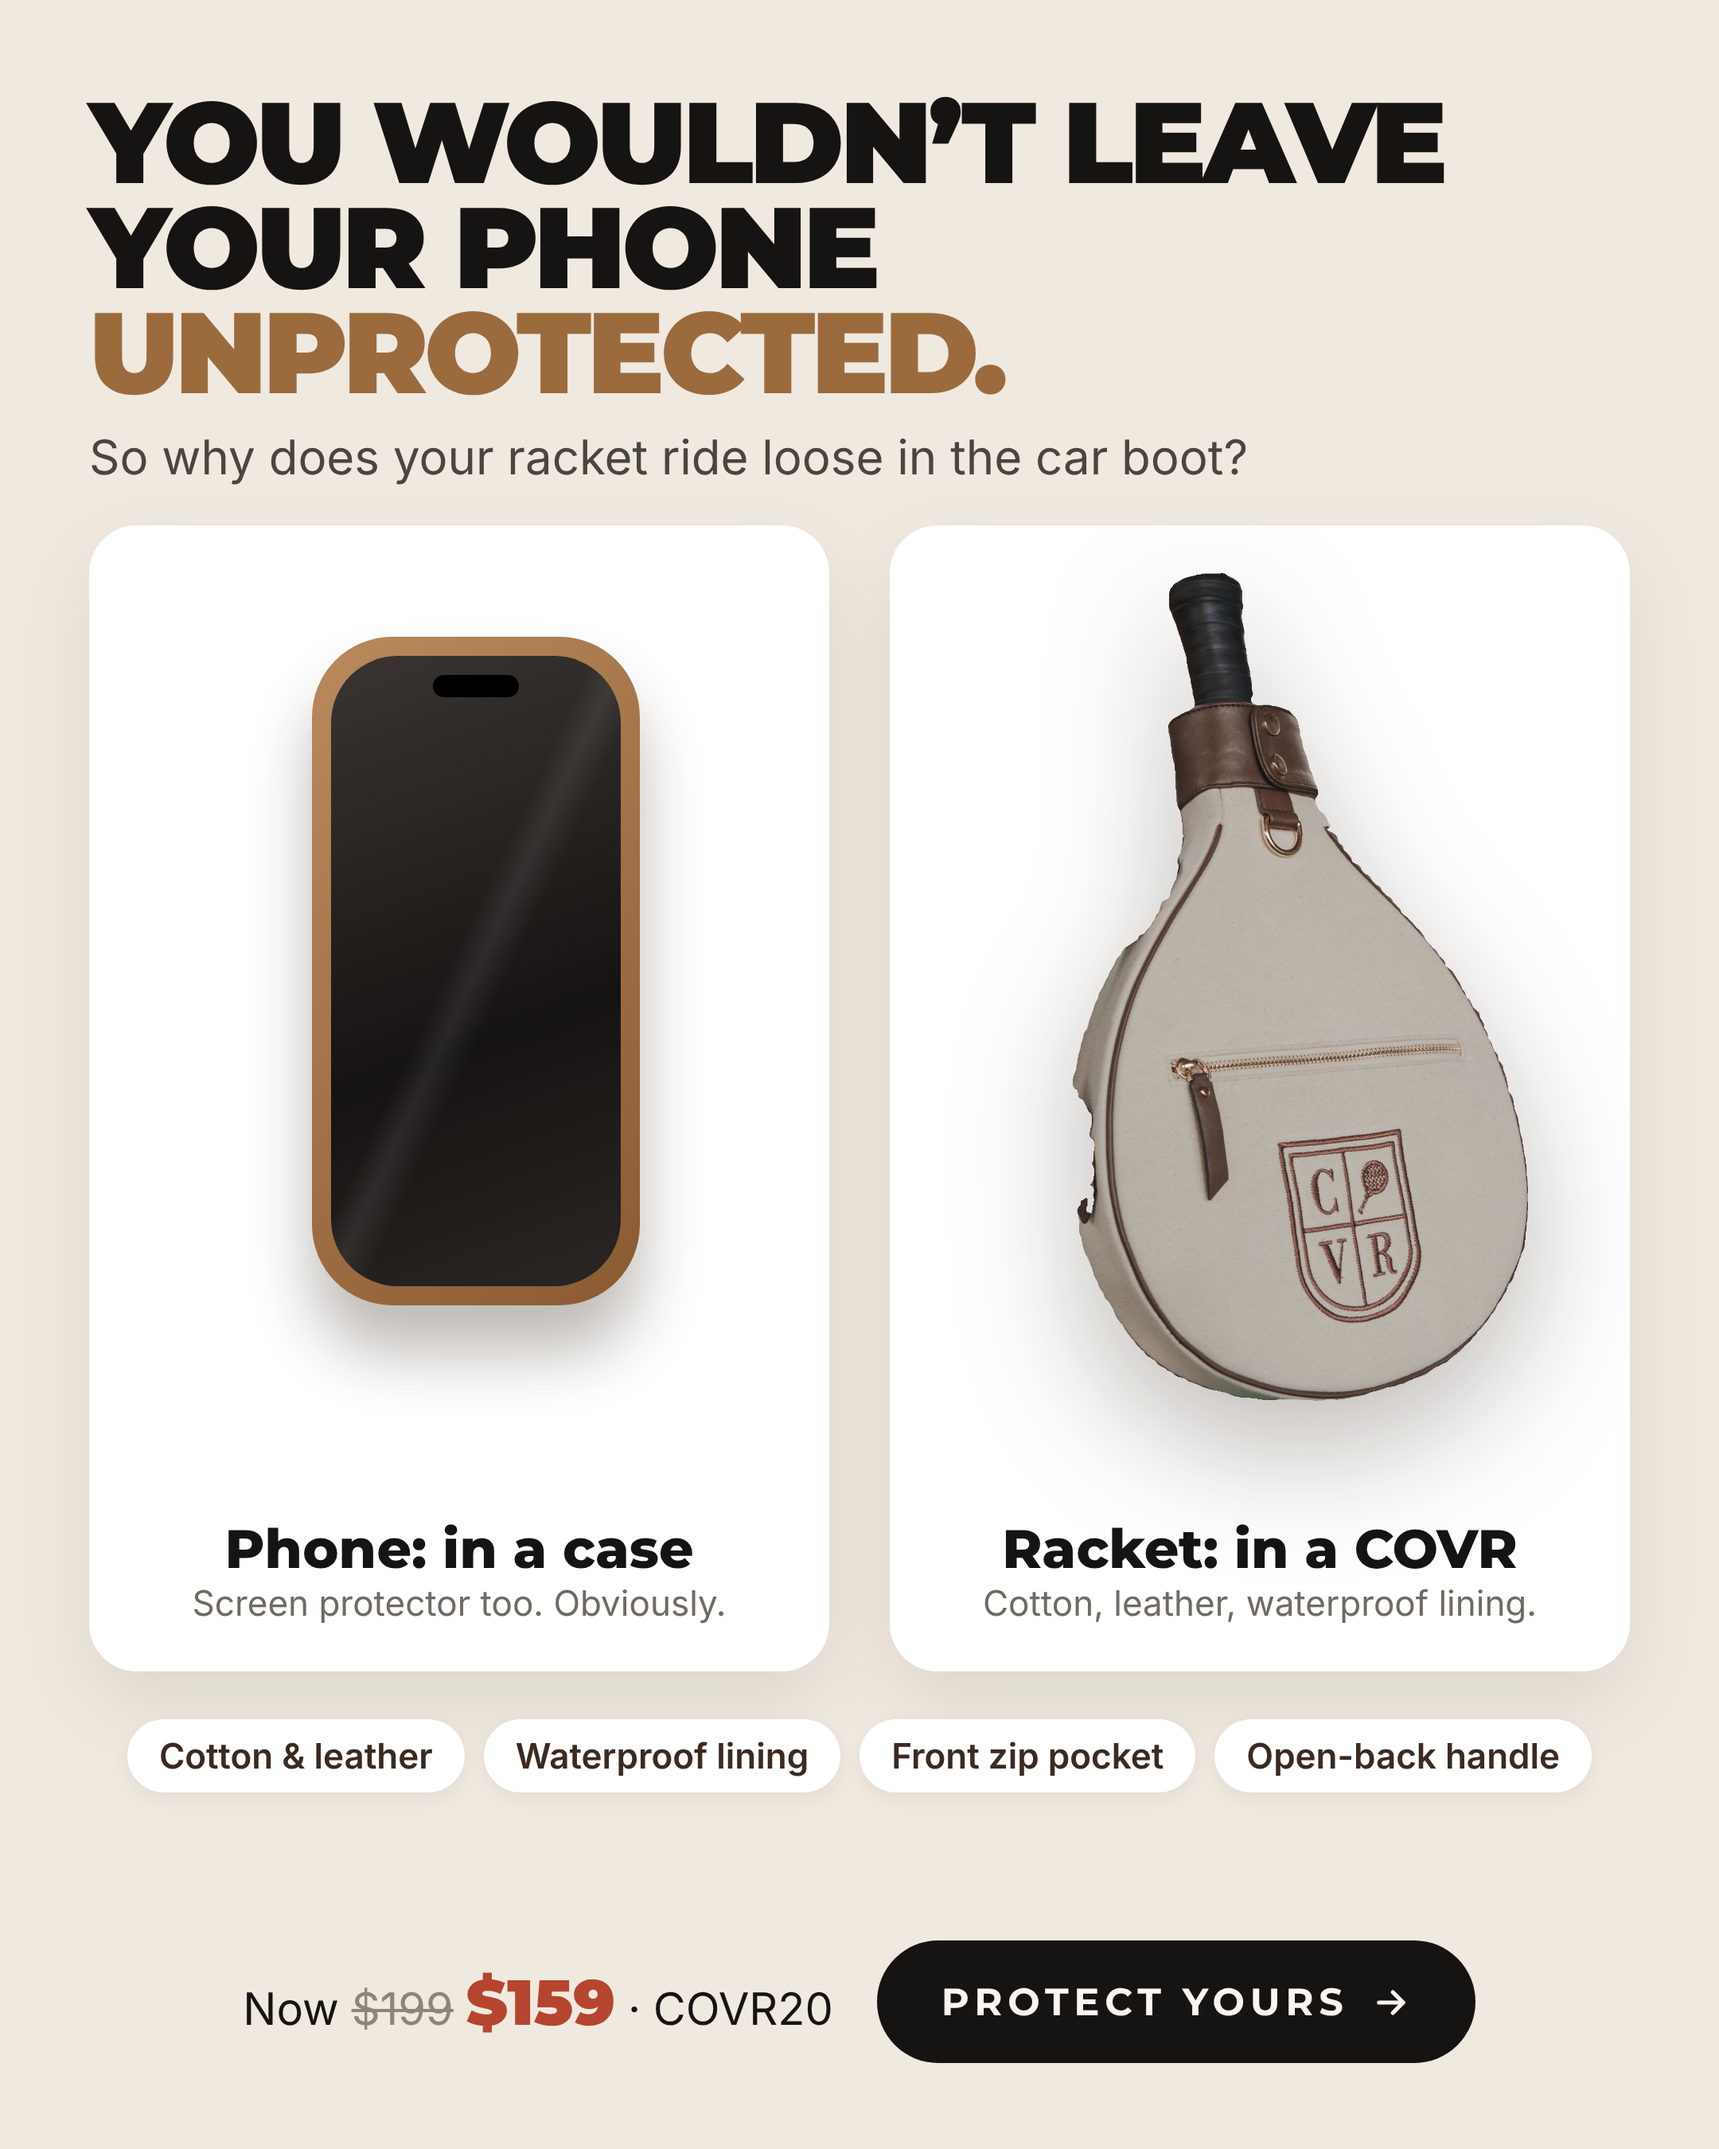
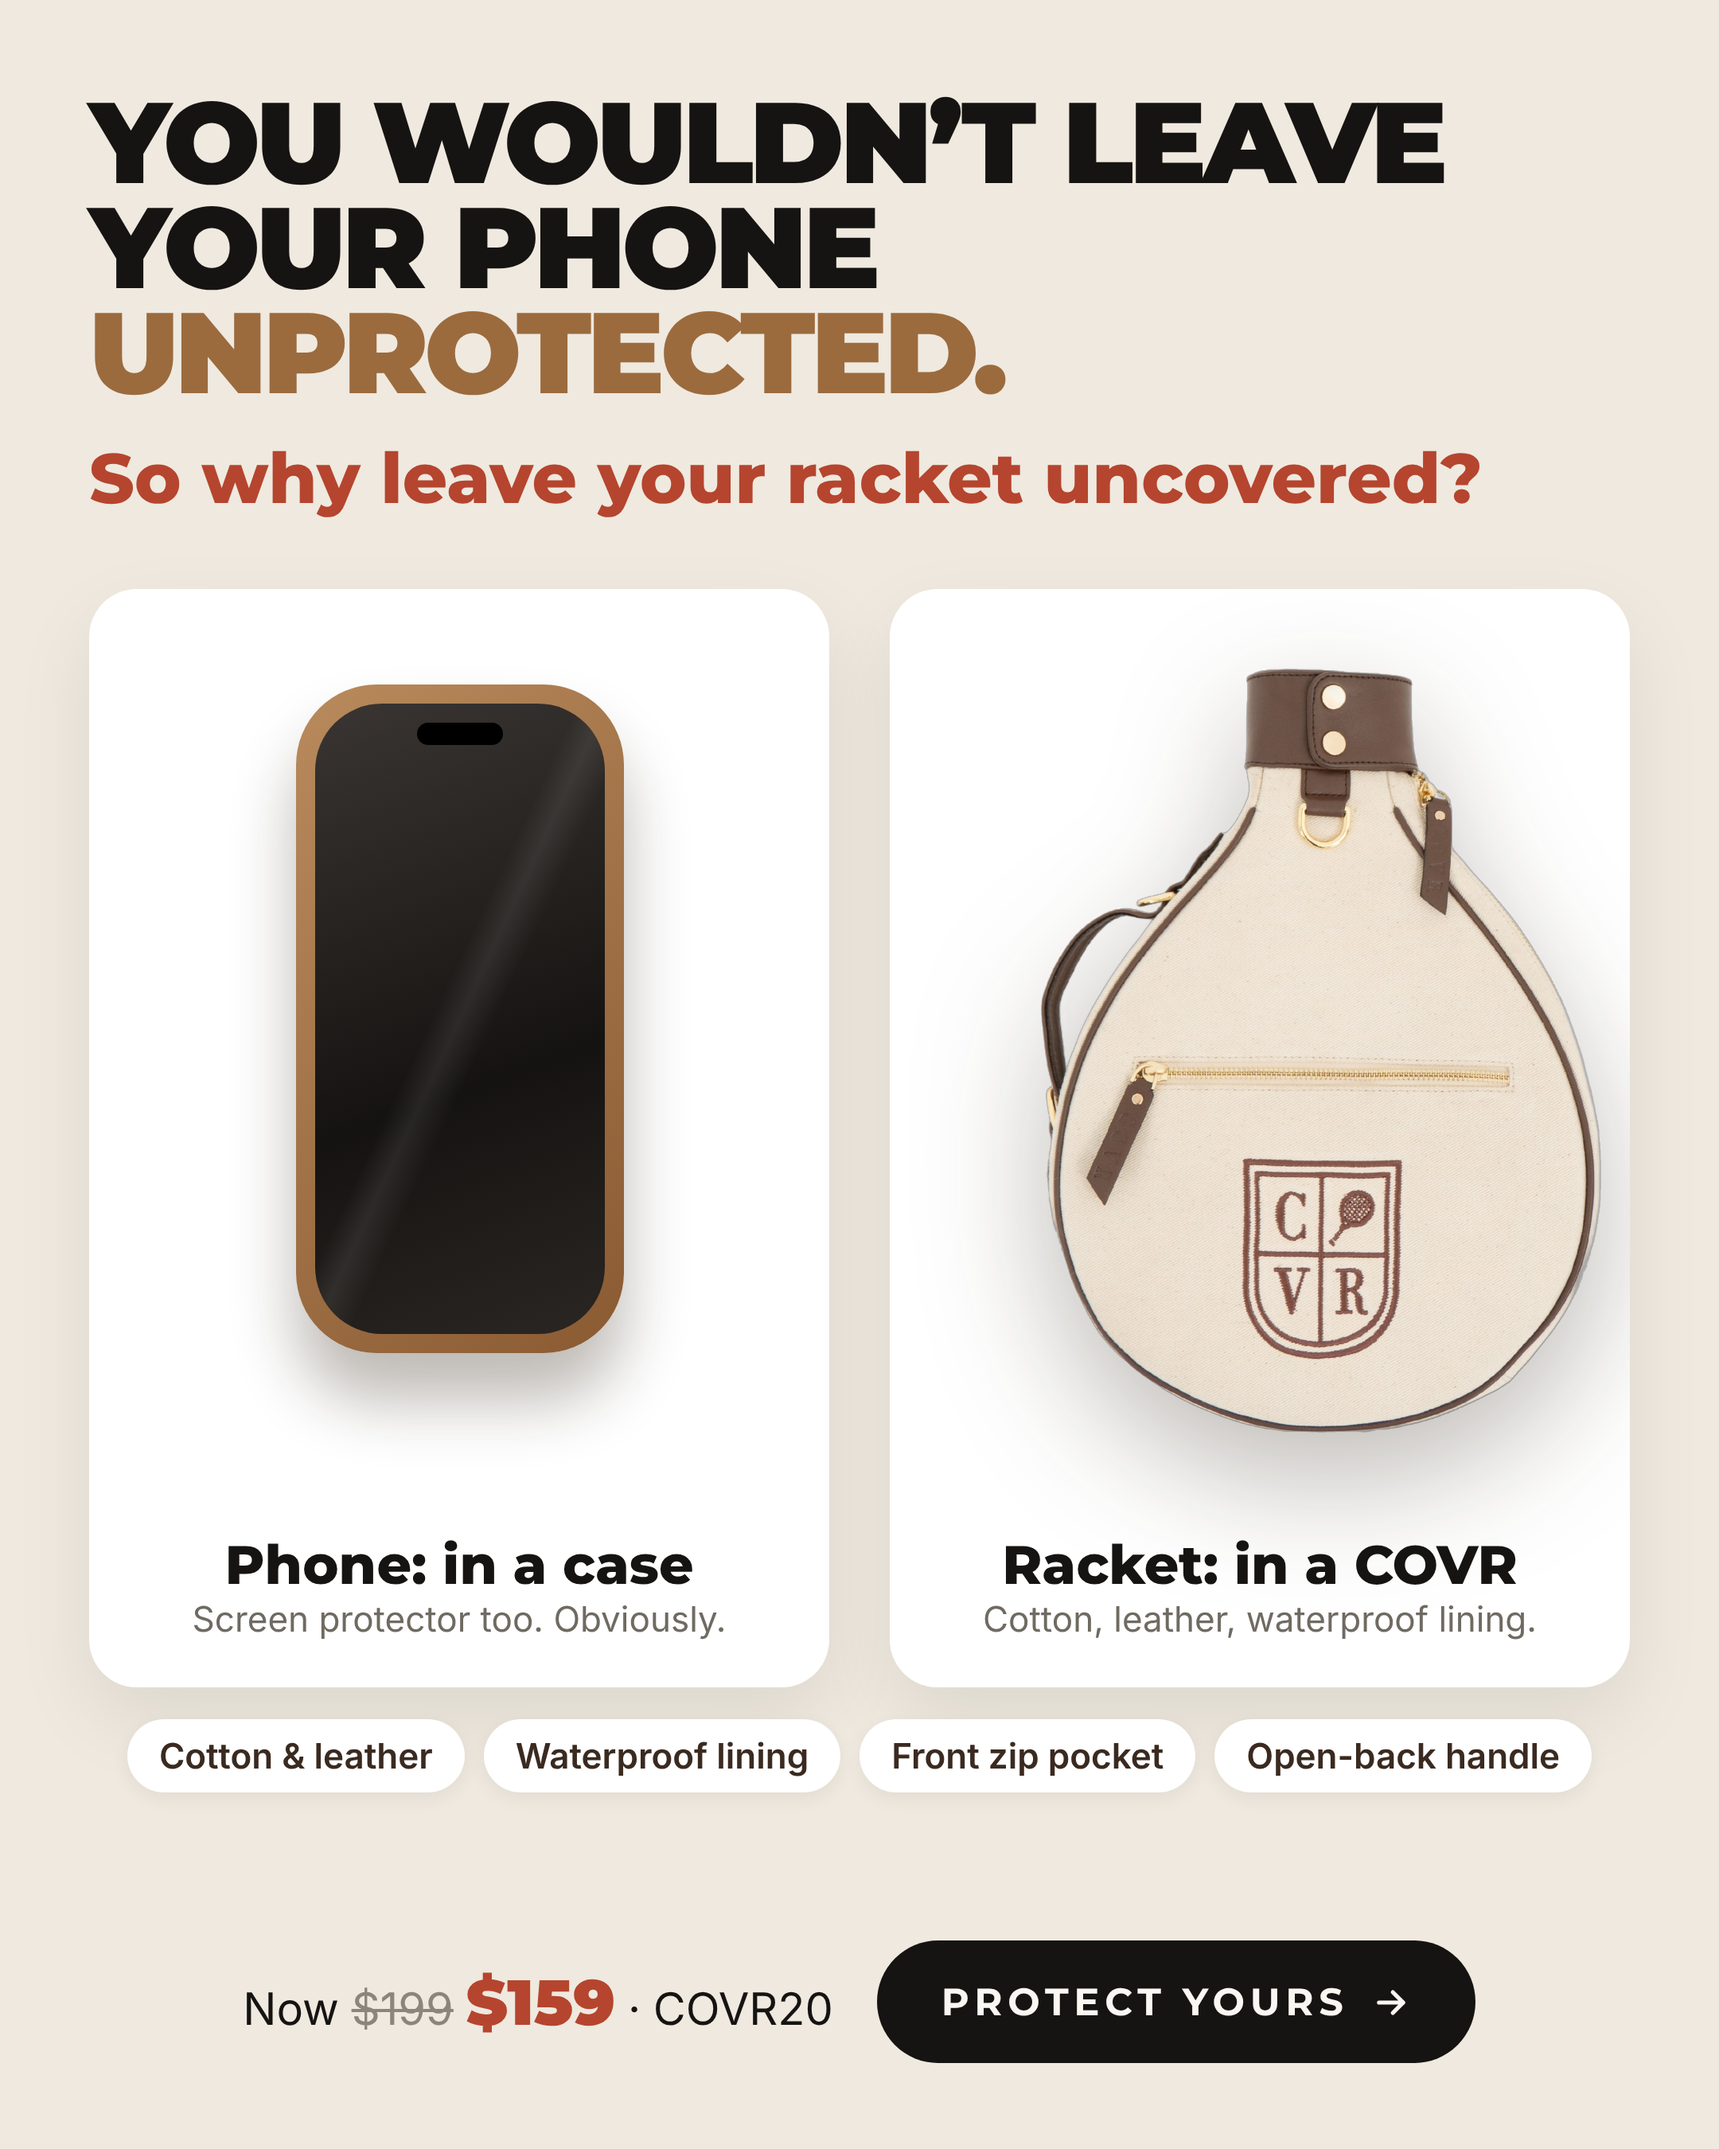
Phone ad: original layout + 'So why leave your racket uncovered?', studio Latte cutout
Claude-Session: https://claude.ai/code/session_01V345AG8PM5DpNjc2uC2RjB

Changed region(s): [[0.031, 0.1867, 0.9616, 0.6844], [0.5273, 0.7156, 0.9306, 0.8089], [0.062, 0.7156, 0.4653, 0.8089]]

diff --git a/creative/ads11.js b/creative/ads11.js
@@ -18,14 +18,14 @@ const add = a => ads.push({ outDir: 'phone', scale: 2, stage: 'TOFU', ...a });
 /* V1 — Side-by-side cards, with the "why" spelled out under each */
 add({
   id: 'ph1-two-cards', format: 'Analogy cards',
-  css: `body{background:#efe9df}.card{position:absolute;top:330px;width:465px;height:720px;border-radius:30px;background:#fff;box-shadow:0 20px 50px rgba(0,0,0,.08);overflow:hidden}
+  css: `body{background:#efe9df}.card{position:absolute;top:370px;width:465px;height:690px;border-radius:30px;background:#fff;box-shadow:0 20px 50px rgba(0,0,0,.08);overflow:hidden}
         .cap{position:absolute;left:0;right:0;bottom:30px;text-align:center}.cap b{display:block;font-family:Montserrat;font-weight:800;font-size:34px}.cap span{font-size:22px;color:#6f6a62}`,
   html: `
     <div class="abs" style="left:56px;right:56px;top:56px"><div class="mega" style="font-size:72px">You wouldn’t leave</div><div class="mega" style="font-size:72px">your phone <span class="tan">unprotected.</span></div>
-      <div style="font-size:30px;color:#4a4540;margin-top:14px">So why does your racket ride loose in the car boot?</div></div>
-    <div class="card" style="left:56px">${phone(140, 70, 420)}
+      <div style="font-family:Montserrat;font-weight:800;font-size:44px;color:#b5452e;margin-top:18px">So why leave your racket uncovered?</div></div>
+    <div class="card" style="left:56px">${phone(130, 60, 420)}
       <div class="cap"><b>Phone: in a case</b><span>Screen protector too. Obviously.</span></div></div>
-    <div class="card" style="left:559px">${cut('latte-bench', 115, 30, 520)}
+    <div class="card" style="left:559px">${cut('pack-latte', 95, 50, 480)}
       <div class="cap"><b>Racket: in a COVR</b><span>Cotton, leather, waterproof lining.</span></div></div>
     <div class="abs" style="left:56px;right:56px;top:1080px">${chips()}</div>
     <div class="abs" style="left:0;right:0;bottom:54px;display:flex;justify-content:center;align-items:center;gap:28px">

diff --git a/CLAUDE.md b/CLAUDE.md
@@ -8,7 +8,7 @@ Palette: cream (#F5F0E6) text on photos, black, natural canvas tones.
 - `python3 scripts/download_images.py` downloads all photos into `images/<colour>/`.
 - `python3 scripts/make_video.py --slide "photo|text" ... --end "headline|sub"` makes a 1080x1920 video ad (needs ffmpeg).
 - `python3 scripts/make_ads.py <photo> --headline ... --sub ... --name ...` makes 1080x1080, 1080x1350 and 1080x1920 ads in `ads/`.
-- Don't advertise colours with stock 0 (check `stock` in products.json); in the Oct 2026 pull that was Mocha and the ball pouch.
+- Don't advertise colours with stock 0 (check `stock` in products.json); in the Oct 2026 pull that was Mocha. The ball pouch is available (stock just not entered in Shopify).
 - Keep text on images short (headline under ~8 words). Put the longer selling copy in the Facebook primary text instead.
 
 ## Designed ads (creative/)
